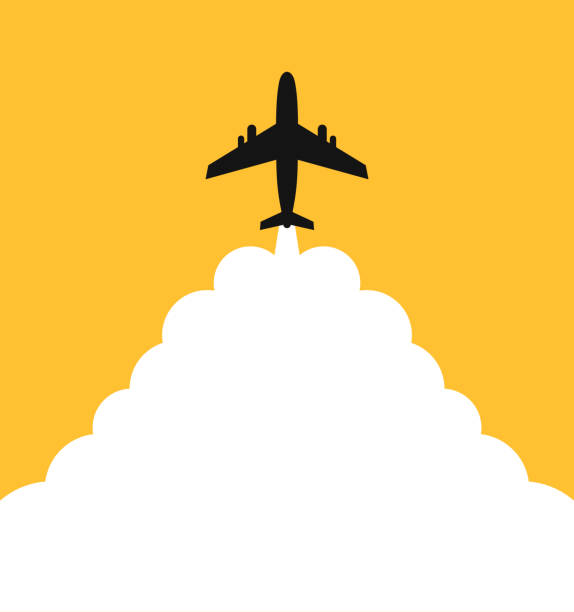
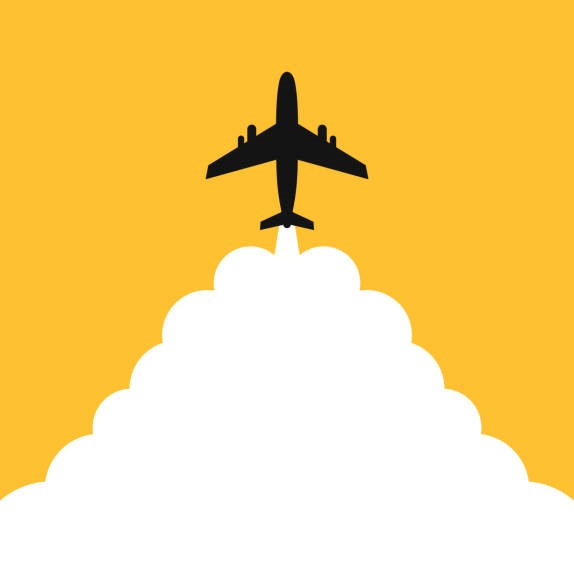
some photos added

Changed region(s): [[0.0, 0.1185, 1.0, 0.8885]]

diff --git a/src/routes/entertainment/+page.svelte b/src/routes/entertainment/+page.svelte
@@ -37,13 +37,10 @@
         <Containerl 
         head="SOLID MOTOR DEMOSNTRATION"
         path="/images/plane.jpg" 
-        text="Step into the dynamic world of rocketry at our Hybrid and Solid Motor Demonstration.
-         Watch as both solid and hybrid rocket motors undergo 
-        static tests, offering a fascinating glimpse into the science of thrust, fuel combustion, and propulsion efficiency. 
-        Learn about the advantages and challenges of each motor type, as experts explain how solid motors provide reliable 
-        and straightforward propulsion, while hybrid motors combine the best of both worlds for improved control and 
-        performance. Don’t miss this engaging showcase that highlights the innovation and expertise driving the future of 
-        aerospace engineering!"
+        text="Step into the exciting world of rocketry at our Solid Motor Demonstration.
+Watch solid rocket motors in action during static tests, offering a fascinating look into the science of thrust, fuel combustion, and propulsion efficiency.
+Discover how solid motors provide reliable, straightforward propulsion, making them a key technology in space exploration.
+With expert explanations and live demonstrations, this showcase offers a deeper understanding of the engineering and innovation driving the future of rocketry and aerospace engineering."
         />
 
 

diff --git a/src/routes/facility/+page.svelte b/src/routes/facility/+page.svelte
@@ -47,6 +47,7 @@ A cascade wind tunnel is a specialized type of wind tunnel used primarily for te
 
     <Content Head="Computer-Aided Engineering Design and Computational Mechanics Lab"
     text="It is a specialized facility used for designing and simulating engineering systems and structures. In this lab, students and researchers utilize CAD software to create detailed 2D and 3D models of mechanical components and assemblies. Computational mechanics tools are employed to perform simulations, such as finite element analysis (FEA), computational fluid dynamics (CFD), and stress analysis, to predict the performance of designs under various conditions. This lab is crucial for understanding material behaviors, optimizing designs, and ensuring safety and efficiency in real-world applications, particularly in fields like aerospace, automotive, and civil engineering."
+    image="/images/facilities/CADlab.jpg"
     />
 
 </main>

diff --git a/src/routes/contact/+page.svelte b/src/routes/contact/+page.svelte
@@ -38,7 +38,7 @@
                 />
                 <Card
                     name="S Srinivasan"
-                    imageurl="/images/profile.jpg"
+                    imageurl="/persons/Srisrinivasan.jpg"
                     role="Faculty at Aerospace Dept"
                     ph="9901998773"
                 />
@@ -164,6 +164,10 @@
         h3 {
             font-size: 1.5rem;
             font-weight: 600;
+        }
+
+        .student-coordinators{
+            align-items: center;
         }
     }
 </style>

diff --git a/src/lib/components/PersonCard.svelte b/src/lib/components/PersonCard.svelte
@@ -23,7 +23,7 @@
   <style>
     .card-container {
       width: 100%;
-      max-width: 300px;
+      max-width: 275px;
       background-color: #1e1e1e;
       border-radius: 10px;
       position: relative;
